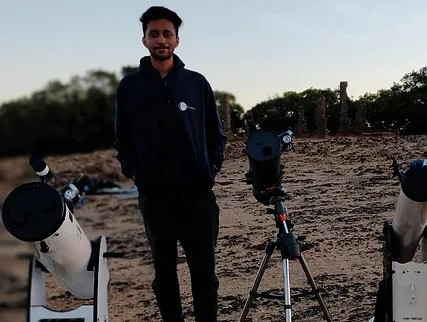
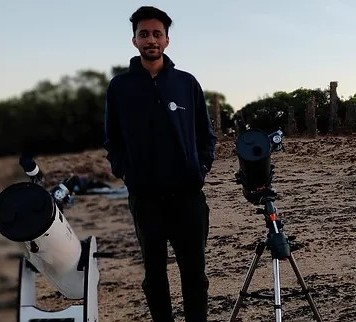
changed photo and hero

diff --git a/src/utils/member.jsx b/src/utils/member.jsx
@@ -1,131 +1,131 @@
-import vimarsh from "../Assets/studentsss/vimarsh.webp"
-import pranav from "../Assets/studentsss/pranav.webp"
-import smrithi from '../Assets/studentsss/smrithi.webp';
-import vishnu from '../Assets/studentsss/vishnu.webp';
-import aashishkanted from '../Assets/studentsss/aashishkanted.webp'
-import arjunputhli from '../Assets/studentsss/arjunputhli.webp'
-import ritwik from '../Assets/studentsss/ritwik.webp'
-import nitya from '../Assets/studentsss/nitya.webp'
-import arya from '../Assets/studentsss/arya.webp'
-import raghav from '../Assets/studentsss/raghav.webp'
-import rajdeep from "../Assets/studentsss/rajdeep.webp"
-import samar from '../Assets/studentsss/samar.webp'
-import vishnuganti from '../Assets/studentsss/vishnuganti1.webp'
-import adarsh from '../Assets/studentsss/adarsh.webp'
-import ajinkya from "../Assets/studentsss/ajinkya.webp"
-import om from "../Assets/studentsss/om.webp"
-import aniket from "../Assets/students/aniket.jpeg"
-import varinder from '../Assets/faculty/varinder1.jpeg';
+import vimarsh from "../Assets/studentsss/vimarsh.jpeg";
+import pranav from "../Assets/studentsss/pranav.webp";
+import smrithi from "../Assets/studentsss/smrithi.webp";
+import vishnu from "../Assets/studentsss/vishnu.webp";
+import aashishkanted from "../Assets/studentsss/aashishkanted.webp";
+import arjunputhli from "../Assets/studentsss/arjunputhli.webp";
+import ritwik from "../Assets/studentsss/ritwik.webp";
+import nitya from "../Assets/studentsss/nitya.webp";
+import arya from "../Assets/studentsss/arya.webp";
+import raghav from "../Assets/studentsss/raghav.jpg";
+import rajdeep from "../Assets/studentsss/rajdeep.webp";
+import samar from "../Assets/studentsss/samar.webp";
+import vishnuganti from "../Assets/studentsss/vishnuganti1.webp";
+import adarsh from "../Assets/studentsss/adarsh.webp";
+import ajinkya from "../Assets/studentsss/ajinkya.webp";
+import om from "../Assets/studentsss/om.jpg";
+import aniket from "../Assets/students/aniket.jpeg";
+import varinder from "../Assets/faculty/varinder1.jpeg";
 
 let student = [
   {
-    name:"Om Jaiswal",
-    email:"f20220483@goa.bits-pilani.ac.in",
-    linkedIn:"https://www.linkedin.com/in/om-jaiswal-b4716a190",
-    image:om
+    name: "Om Jaiswal",
+    email: "f20220483@goa.bits-pilani.ac.in",
+    linkedIn: "https://www.linkedin.com/in/om-jaiswal-b4716a190",
+    image: om,
   },
   {
-    name:"Aniket Sonawane",
-    email:"f20220031@goa.bits-pilani.ac.in",
-    linkedIn:"https://www.linkedin.com/in/aniket-sonawane-3a87b9249/",
-    image:aniket
+    name: "Aniket Sonawane",
+    email: "f20220031@goa.bits-pilani.ac.in",
+    linkedIn: "https://www.linkedin.com/in/aniket-sonawane-3a87b9249/",
+    image: aniket,
   },
   {
-    name:"Ajikya Deshpande",
-    email:"f20220746@goa.bits-pilani.ac.in",
-    linkedIn:"https://www.linkedin.com/in/ajinkya-deshpande-6ab13b265",
-    image:ajinkya
-  },
-
-  {
-    name:"Adarsh Pai",
-    email:"f20220698@goa.bits-pilani.ac.in",
-    linkedIn:"https://www.linkedin.com/in/adarsh-pai-063050263",
-    image:adarsh
+    name: "Ajikya Deshpande",
+    email: "f20220746@goa.bits-pilani.ac.in",
+    linkedIn: "https://www.linkedin.com/in/ajinkya-deshpande-6ab13b265",
+    image: ajinkya,
   },
 
   {
-    name:"Arya Kulkarni",
-    email:"f20220557@goa.bits-pilani.ac.in",
-    linkedIn:"https://www.linkedin.com/in/arya-kulkarni-a68b55251",
-    image:arya
+    name: "Adarsh Pai",
+    email: "f20220698@goa.bits-pilani.ac.in",
+    linkedIn: "https://www.linkedin.com/in/adarsh-pai-063050263",
+    image: adarsh,
+  },
+
+  {
+    name: "Arya Kulkarni",
+    email: "f20220557@goa.bits-pilani.ac.in",
+    linkedIn: "https://www.linkedin.com/in/arya-kulkarni-a68b55251",
+    image: arya,
   },
   {
-    name:"Raghav Mohak Kumar",
-    email:"f20220137@goa.bits-pilani.ac.in",
-    linkedIn:"http://www.linkedin.com/in/raghav-mohan-kumar-427557246",
-    image:raghav
+    name: "Raghav Mohak Kumar",
+    email: "f20220137@goa.bits-pilani.ac.in",
+    linkedIn: "http://www.linkedin.com/in/raghav-mohan-kumar-427557246",
+    image: raghav,
   },
   {
-    name:"Rajdeep Naha",
-    email:"f20221218@goa.bits-pilani.ac.in",
-    linkedIn:"https://www.linkedin.com/in/rajdeep-naha-a6a032257",
-    image:rajdeep
+    name: "Rajdeep Naha",
+    email: "f20221218@goa.bits-pilani.ac.in",
+    linkedIn: "https://www.linkedin.com/in/rajdeep-naha-a6a032257",
+    image: rajdeep,
   },
   {
-    name:"Vimarsh Shah",
-    email:"f20221060@goa.bits-pilani.ac.in",
-    linkedIn:"https://www.linkedin.com/in/vimarshshah",
-    image:vimarsh
+    name: "Vimarsh Shah",
+    email: "f20221060@goa.bits-pilani.ac.in",
+    linkedIn: "https://www.linkedin.com/in/vimarshshah",
+    image: vimarsh,
   },
   {
-    name:"Pranav Saxena",
-    email:"f20220257@goa.bits-pilani.ac.in",
-    linkedIn:"https://www.linkedin.com/in/pranav-saxena13",
-    image:pranav
+    name: "Pranav Saxena",
+    email: "f20220257@goa.bits-pilani.ac.in",
+    linkedIn: "https://www.linkedin.com/in/pranav-saxena13",
+    image: pranav,
   },
   {
-    name:"Samar Jalil Siddiqui",
-    email:"f20221135@goa.bita-pilani.ac.in",
-    linkedIn:"https://www.linkedin.com/in/samar-jalil-siddiqui-96b852299/",
-    image:samar
+    name: "Samar Jalil Siddiqui",
+    email: "f20221135@goa.bita-pilani.ac.in",
+    linkedIn: "https://www.linkedin.com/in/samar-jalil-siddiqui-96b852299/",
+    image: samar,
   },
   {
-    name:"Vishnu Ganti",
-    email:"f20220579@goa.bits-pilani.ac.in",
-    linkedIn:"https://www.linkedin.com/in/vishnu-ganti-223898258",
-    image:vishnuganti
+    name: "Vishnu Ganti",
+    email: "f20220579@goa.bits-pilani.ac.in",
+    linkedIn: "https://www.linkedin.com/in/vishnu-ganti-223898258",
+    image: vishnuganti,
   },
   {
-    name: 'Smrithi Lokesh',
-    mobile: '+916361694968',
-    email: 'f20212018@goa.bits-pilani.ac.in',
-    linkedIn: 'https://www.linkedin.com/in/smrithi-ls-0894b7219',
+    name: "Smrithi Lokesh",
+    mobile: "+916361694968",
+    email: "f20212018@goa.bits-pilani.ac.in",
+    linkedIn: "https://www.linkedin.com/in/smrithi-ls-0894b7219",
     image: smrithi,
   },
   {
-    name: 'Vishnu Vardhan Reddy Peddireddy',
-    mobile: '+918790830151',
-    email: 'f20211199@goa.bits-pilani.ac.in',
-    linkedIn: 'https://www.linkedin.com/in/',
+    name: "Vishnu Vardhan Reddy Peddireddy",
+    mobile: "+918790830151",
+    email: "f20211199@goa.bits-pilani.ac.in",
+    linkedIn: "https://www.linkedin.com/in/",
     image: vishnu,
   },
   {
-    name: 'Aashish Kanted',
-    mobile: '+919840530003',
-    email: 'f20211912@goa.bits-pilani.ac.in',
-    linkedIn: 'https://www.linkedin.com/in/aashish-kanted-7a3707225',
+    name: "Aashish Kanted",
+    mobile: "+919840530003",
+    email: "f20211912@goa.bits-pilani.ac.in",
+    linkedIn: "https://www.linkedin.com/in/aashish-kanted-7a3707225",
     image: aashishkanted,
   },
   {
-    name: 'Arjun Puthli',
-    mobile: '+919594333307',
-    email: 'f20212249@goa.bits-pilani.ac.in',
-    linkedIn: 'https://www.linkedin.com/mwlite/in/arjun-puthli-810938189',
+    name: "Arjun Puthli",
+    mobile: "+919594333307",
+    email: "f20212249@goa.bits-pilani.ac.in",
+    linkedIn: "https://www.linkedin.com/mwlite/in/arjun-puthli-810938189",
     image: arjunputhli,
   },
   {
-    name: 'Ritwik',
-    mobile: '+919999326476',
-    email: 'f20220470@goa.bits-pilani.ac.in',
-    linkedIn: 'https://www.linkedin.com/in/ritwik-sharma-609a38268',
+    name: "Ritwik",
+    mobile: "+919999326476",
+    email: "f20220470@goa.bits-pilani.ac.in",
+    linkedIn: "https://www.linkedin.com/in/ritwik-sharma-609a38268",
     image: ritwik,
   },
   {
-    name: 'Nitya Ahuja',
-    mobile: '+919606031958',
-    email: 'f20212293@goa.bits-pilani.ac.in',
-    linkedIn: 'https://www.linkedin.com/in/nitya-ahuja-516240237/',
+    name: "Nitya Ahuja",
+    mobile: "+919606031958",
+    email: "f20212293@goa.bits-pilani.ac.in",
+    linkedIn: "https://www.linkedin.com/in/nitya-ahuja-516240237/",
     image: nitya,
   },
 ];
@@ -133,9 +133,9 @@ let student = [
 let faculty = [
   {
     image: varinder,
-    name: 'Dr. Varinder Singh',
-    url: 'https://www.bits-pilani.ac.in/goa/varinder-singh/',
-  }
+    name: "Dr. Varinder Singh",
+    url: "https://www.bits-pilani.ac.in/goa/varinder-singh/",
+  },
 ];
 
 function compare(a, b) {

diff --git a/src/styles/hero.css b/src/styles/hero.css
@@ -1,10 +1,10 @@
 .hero {
   height: 100vh;
-
   background: rgb(0, 0, 0);
 
-  /* background-image: url("../Assets/sandboxN.jpg"); */
+  background-image: url("../Assets/sandboxNew.jpeg");
   background-repeat: no-repeat;
+  background-size: cover;
 }
 
 .hero-overlay {
@@ -15,10 +15,10 @@
   color: white;
   height: 100vh;
   background: linear-gradient(
-    0deg,
-    rgba(0, 0, 0, 0.668) 0%,
-    #000000de 50%,
-    rgba(0, 0, 0, 1) 100%
+    180deg,
+    rgba(0, 0, 0, 0.403) 0%,
+    rgba(0, 0, 0, 0.659) 50%,
+    rgb(0, 0, 0) 100%
   );
 }
 
